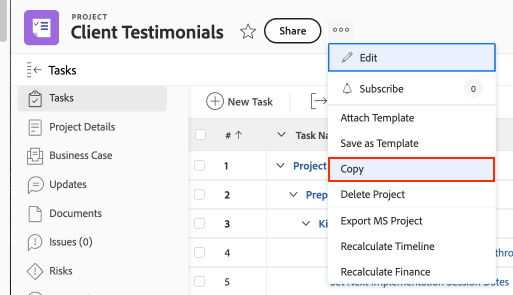
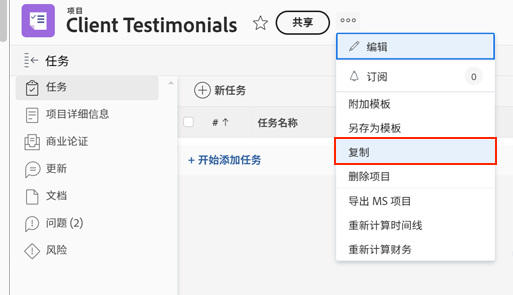
Updated by task 'AUTO_HANDOFF_1729000170363'  Changes for core/source commit https://git.corp.adobe.com/AdobeDocs/workfront-learn.en/commit/864198f778343634d28b304a0154c7041468faec

diff --git a/help/manage-work/create-and-manage-project-templates/deactivate-a-project-template.md b/help/manage-work/create-and-manage-project-templates/deactivate-a-project-template.md
@@ -14,7 +14,7 @@ jira: KT-14749
 doc-type: video
 exl-id: ad9b9e1e-3d8c-4a0f-8f73-e204047485a6
 source-git-commit: 434069d95777eef7739917d8761c03a8e64b8433
-workflow-type: tm+mt
+workflow-type: ht
 source-wordcount: '125'
 ht-degree: 100%
 
@@ -31,7 +31,7 @@ ht-degree: 100%
 
 ## 了解如何创建自定义视图，以查看和编辑项目模板的活动状态
 
-要创建具有活动状态列的项目模板视图，请参阅[创建基本视图](https://experienceleague.adobe.com/docs/workfront-learn/tutorials-workfront/reporting/basic-reporting/create-a-basic-view.html?lang=zh-Hans)中的&#x200B;**项目模板活动状态视图**&#x200B;活动。
+要创建具有活动状态列的项目模板视图，请参阅[创建基本视图](https://experienceleague.adobe.com/docs/workfront-learn/tutorials-workfront/reporting/basic-reporting/create-a-basic-view.html?lang=zh-hans)中的&#x200B;**项目模板活动状态视图**&#x200B;活动。
 
 ## 有关此主题的推荐教程
 

diff --git a/help/manage-work/manage-projects/copy-an-existing-project.md b/help/manage-work/manage-projects/copy-an-existing-project.md
@@ -12,15 +12,15 @@ recommendations: noDisplay,noCatalog
 jira: KT-10155
 exl-id: 90a87fef-70e9-42fc-ac55-415980ef32c7
 source-git-commit: 434069d95777eef7739917d8761c03a8e64b8433
-workflow-type: tm+mt
+workflow-type: ht
 source-wordcount: '155'
-ht-degree: 89%
+ht-degree: 100%
 
 ---
 
 # 复制现有项目
 
-有时，您只需要复制一个项目以供一次性使用，而不需要使用模板来创建项目。要执行此操作，您必须拥有对项目具有“编辑”和“创建”权限的“标准”许可证。
+有时，您只需要复制一个项目以供一次性使用，而不需要使用模板来创建项目。为此，您必须拥有标准许可，并具有编辑和创建项目的访问权限。
 
 导航到要复制的项目，然后单击项目名称旁边的三点菜单。然后选择“复制”。
 

diff --git a/help/manage-work/create-and-manage-project-templates/create-a-project-directly-from-a-template.md b/help/manage-work/create-and-manage-project-templates/create-a-project-directly-from-a-template.md
@@ -12,7 +12,7 @@ recommendations: noDisplay,noCatalog
 jira: KT-10156
 exl-id: 1f44eb26-98bf-4723-b162-27a4f8cb8177
 source-git-commit: 434069d95777eef7739917d8761c03a8e64b8433
-workflow-type: tm+mt
+workflow-type: ht
 source-wordcount: '197'
 ht-degree: 100%
 

diff --git a/help/manage-work/create-and-manage-project-templates/share-a-project-template.md b/help/manage-work/create-and-manage-project-templates/share-a-project-template.md
@@ -13,9 +13,9 @@ jira: KT-8951
 exl-id: 9179fbc8-1000-4215-b2c3-de617c7f1d80
 doc-type: video
 source-git-commit: 434069d95777eef7739917d8761c03a8e64b8433
-workflow-type: tm+mt
+workflow-type: ht
 source-wordcount: '77'
-ht-degree: 79%
+ht-degree: 100%
 
 ---
 

diff --git a/help/manage-work/create-and-manage-project-templates/create-a-project-template.md b/help/manage-work/create-and-manage-project-templates/create-a-project-template.md
@@ -14,7 +14,7 @@ jira: KT-8950
 exl-id: 1f706148-c001-42a8-a675-48e91d445f0b
 doc-type: video
 source-git-commit: 434069d95777eef7739917d8761c03a8e64b8433
-workflow-type: tm+mt
+workflow-type: ht
 source-wordcount: '367'
 ht-degree: 100%
 

diff --git a/help/manage-work/create-and-manage-project-templates/edit-the-project-team-in-a-project-template.md b/help/manage-work/create-and-manage-project-templates/edit-the-project-team-in-a-project-template.md
@@ -14,7 +14,7 @@ jira: KT-14755
 doc-type: video
 exl-id: 9a92a0a5-5ea3-428d-a81a-2d217e6e3d59
 source-git-commit: 434069d95777eef7739917d8761c03a8e64b8433
-workflow-type: tm+mt
+workflow-type: ht
 source-wordcount: '84'
 ht-degree: 100%
 
